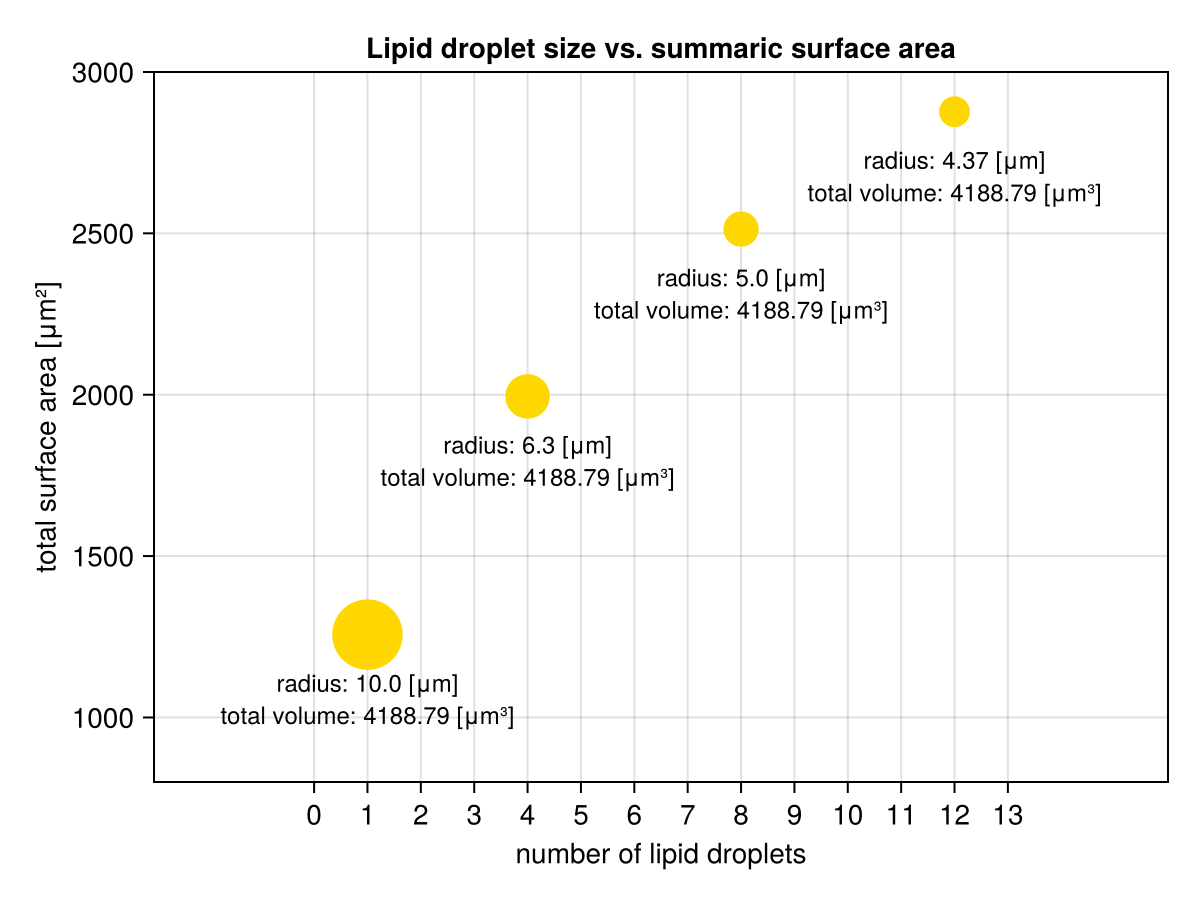
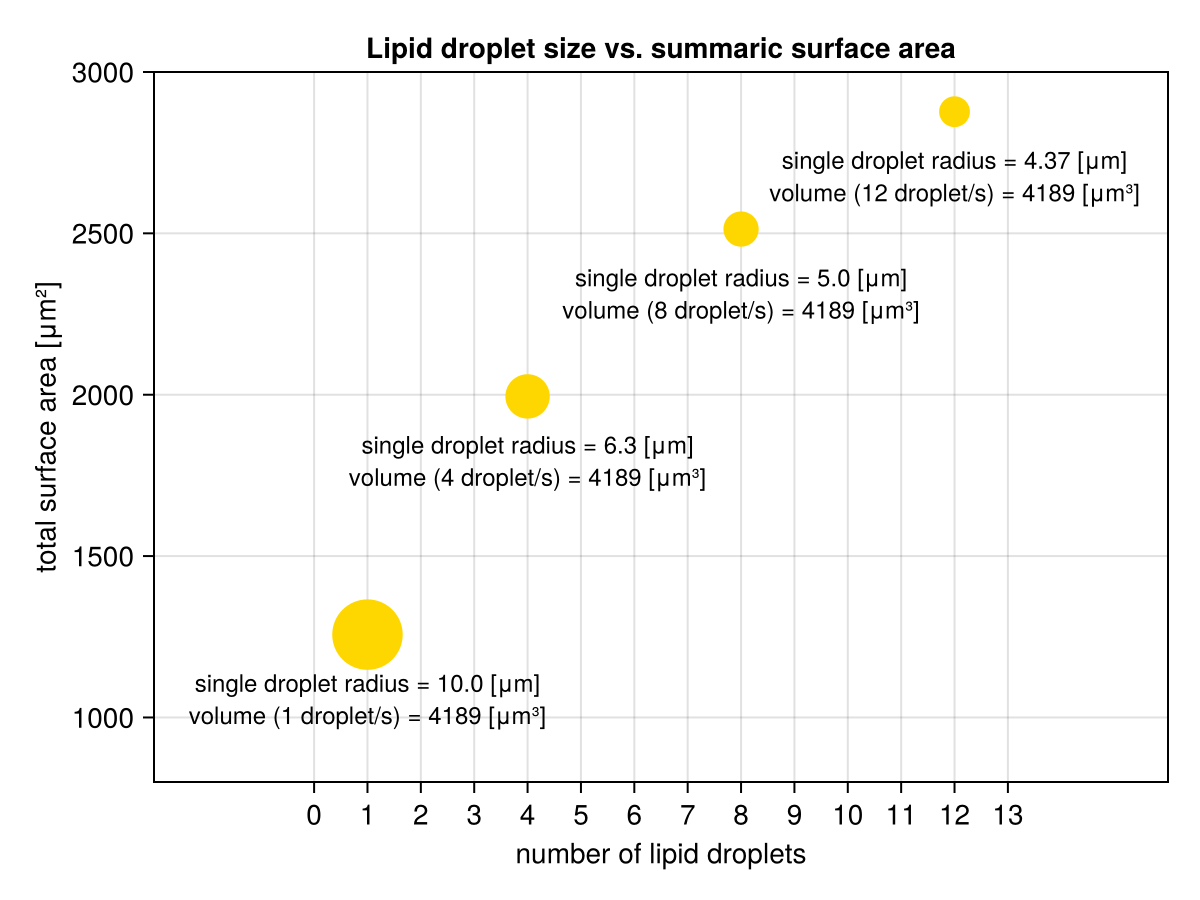
small improvements in bile example

diff --git a/contents/bile.md b/contents/bile.md
@@ -1,6 +1,6 @@
 # Bile {#sec:bile}
 
-In this chapter may or may not use the following external libraries.
+In this chapter you may or may not use the following external libraries.
 
 ```jl
 s2 = """
@@ -138,6 +138,12 @@ end
 sc(s)
 ```
 
+> **_Note:_** If there were no function for $\sqrt[3]{x}$ you could easily
+> define it yourself with: `getCbrt(x) = x^(1/3)` (here I used a [single
+> expression
+> function](https://en.wikibooks.org/wiki/Introducing_Julia/Functions#Single_expression_functions)
+> for brevity) since $\sqrt[n]{x} = x^{1/n}$.
+
 Time to test how it works. Let's see if we can divide `bigS` (actually its
 volume: `bigV`) into 4 smaller drops of total volume equal to `bigV`.
 
@@ -158,21 +164,21 @@ different size.
 
 ```jl
 s = """
-areas = [bigA]
-volumes = [bigV]
+sumsOfAreas = [bigA]
+sumsOfVolumes = [bigV]
 radii = [bigS.radius]
 
 numsOfDroplets = collect(4:4:12)
 for nDrops in numsOfDroplets
     # local variables smallS, smallV, smallA, sumSmallAs, sumSmallVs
-	# visible only in for loop
+    # visible only in for loop
     smallS = getSphere(bigV / nDrops)
     smallV = getVolume(smallS)
     smallA = getSurfaceArea(smallS)
     sumSmallAs = smallA * nDrops
     sumSmallVs = smallV * nDrops
-    push!(areas, sumSmallAs)
-    push!(volumes, sumSmallVs)
+    push!(sumsOfAreas, sumSmallAs)
+    push!(sumsOfVolumes, sumSmallVs)
     push!(radii, smallS.radius)
 end
 
@@ -181,26 +187,27 @@ prepend!(numsOfDroplets, 1)
 sc(s)
 ```
 
-We begin by initializing vectors that will hold the `areas`, `volumes`, and
-`radii` of our lipid droplets. Then we define the number of droplets that we
-want to split our big droplet into (`numsOfDroplets`). For each of those (`for
-nDrops in numsOfDroplets`) we determine the radius (`smallS = getSphere`),
-volume (`smallV`) and surface area (`smallA`) of a single small droplet as well
-as total area (`sumSmallAs`) and total volume (`sumSmallVs`) of `nDrops`. We
-add the total area, total volume and radius of a single droplet to the `areas`,
-`volumes`, and `radii` vectors, respectively. In the end we `prepend` 1 to the
-`numOfDroplets`, since we started with one big droplet (`bigS`).
+We begin by initializing vectors that will hold the `sumsOfAreas`,
+`sumsOfvolumes`, and `radii` of our lipid droplets. Then we define the number of
+droplets that we want to split our big droplet into (`numsOfDroplets`). For each
+of those (`for nDrops in numsOfDroplets`) we determine the radius (`smallS =
+getSphere`), volume (`smallV`) and surface area (`smallA`) of a single small
+droplet as well as total area (`sumSmallAs`) and total volume (`sumSmallVs`) of
+`nDrops`. We add the total area, total volume and radius of a single droplet to
+the `sumsOfAreas`, `sumsOfVolumes`, and `radii` vectors, respectively. In the
+end we `prepend` 1 to the `numOfDroplets`, since we started with one big droplet
+(`bigS`).
 
 BTW. Notice that `smallS`, `smallV`, `smallA`, `sumSmallAs`, `sumSmallVs` are
 all local variables defined for the first time in the `for` loop and visible
 only inside of it. If you try to print out their values outside of the loop you
 will get an error like `ERROR: UndefVarError: 'smallS' not defined`.
 
-Anyway, now, we can either examine the vectors (`areas`, `volumes`, `radii`,
-`numOfDroplets`) one by one, or do one better and present them on a graph with
-e.g. CairoMakie (I'm not going to explain the code below, for reference see [my
-previous book](https://b-lukaszuk.github.io/RJ_BS_eng/) or [CairoMakie
-tutorial](https://docs.makie.org/stable/tutorials/getting-started)).
+Anyway, now, we can either examine the vectors (`sumsOfAreas`, `sumsOfVolumes`,
+`radii`, `numOfDroplets`) one by one, or do one better and present them on a
+graph with e.g. CairoMakie (I'm not going to explain the code below, for
+reference see [my previous book](https://b-lukaszuk.github.io/RJ_BS_eng/) or
+[CairoMakie tutorial](https://docs.makie.org/stable/tutorials/getting-started)).
 
 <pre>
 fig = Cmk.Figure();
@@ -208,16 +215,19 @@ ax = Cmk.Axis(fig[1, 1],
               title="Lipid droplet size vs. summaric surface area",
               xlabel="number of lipid droplets",
               ylabel="total surface area [μm²]", xticks=0:13);
-Cmk.scatter!(ax, numsOfDroplets, areas, markersize=radii .* 5,
+Cmk.scatter!(ax, numsOfDroplets, sumsOfAreas, markersize=radii .* 5,
              color="gold1", strokecolor="black");
 Cmk.xlims!(ax, -3, 16);
 Cmk.ylims!(ax, 800, 3000);
-Cmk.text!(ax, numsOfDroplets, areas .- 150,
-    text=map(r -> "radius = $(round(r, digits=2)) [μm]", radii),
+Cmk.text!(ax, numsOfDroplets, sumsOfAreas .- 150,
+    text=map(r -> "single droplet radius = $(round(r, digits=2)) [μm]",
+	         radii),
     fontsize=12, align=(:center, :center)
 );
-Cmk.text!(ax, numsOfDroplets, areas .- 250,
-    text=map(r -> "total volume = $(round(r, digits=2)) [μm³]", volumes),
+Cmk.text!(ax, numsOfDroplets, sumsOfAreas .- 250,
+    text=map((v, n) ->
+	"volume ($n droplet/s) = $(round(v, digits=2)) [μm³]",
+	sumsOfVolumes, numsOfDroplets),
     fontsize=12, align=(:center, :center)
 );
 fig
